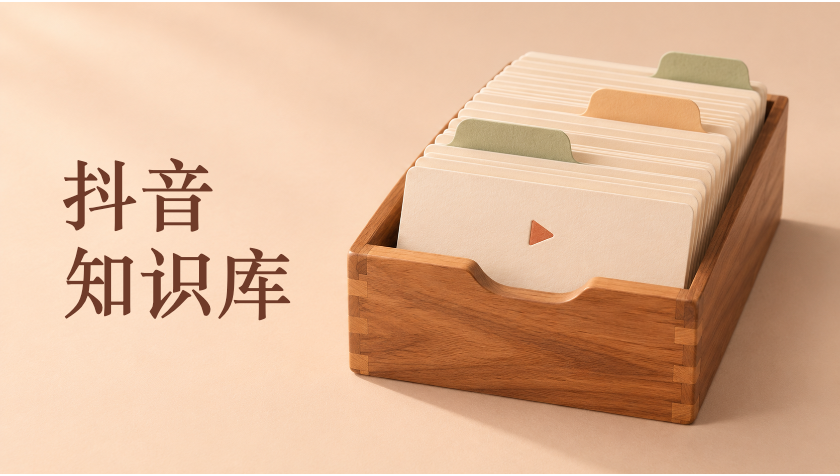
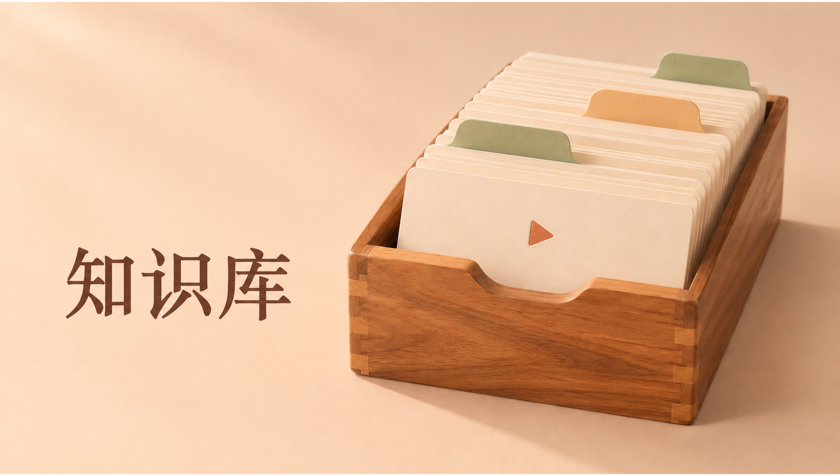
更新智能硬件与知识库首页封面

diff --git a/index.html b/index.html
@@ -12,7 +12,7 @@
     <a class="collection-action" href="https://github.com/youngting520/youngting520.github.io/blob/main/智能硬件行业知识分享/README.md">阅读 6 篇文章 →</a>
   </article>
   <article aria-label="抖音知识库">
-    <a class="collection-cover" href="https://github.com/youngting520/douyin-knowledge#主题目录"><img src="assets/douyin-knowledge-cover.png" width="840" height="476" alt="抖音知识库"></a>
+    <a class="collection-cover" href="https://github.com/youngting520/douyin-knowledge#主题目录"><img src="assets/douyin-knowledge-cover.png" width="840" height="476" alt="知识库"></a>
     <p>从抖音收藏和点赞里整理出的教程、练习和实用方法。</p>
     <a class="collection-action" href="https://github.com/youngting520/douyin-knowledge#主题目录">浏览 8 个主题 →</a>
   </article>
